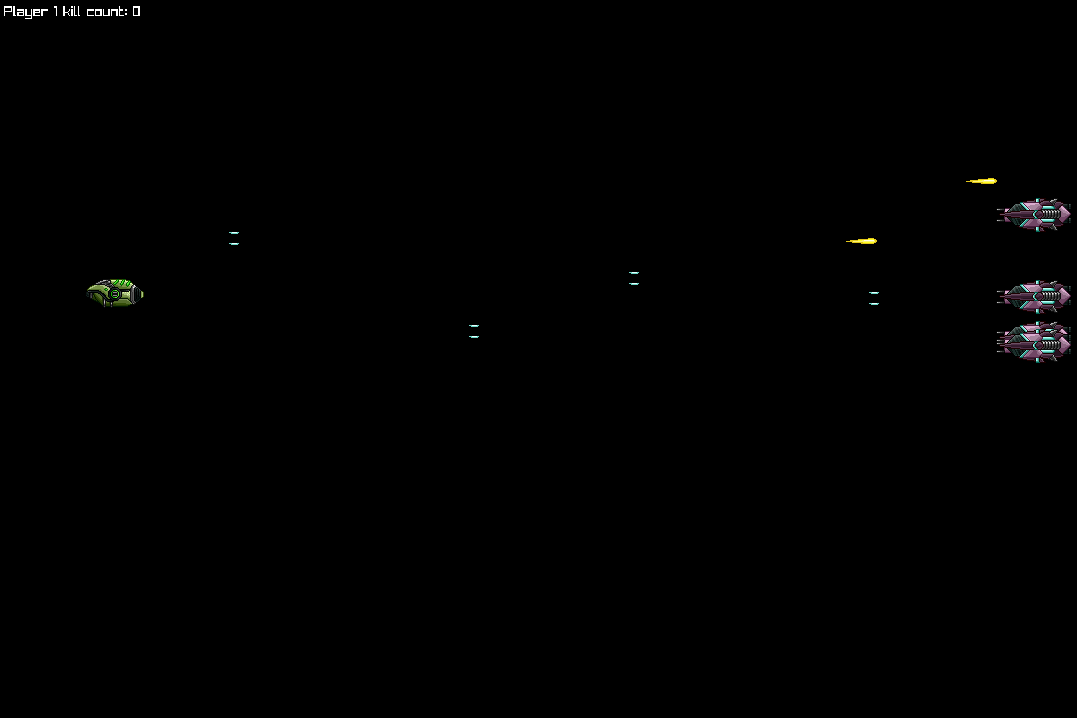
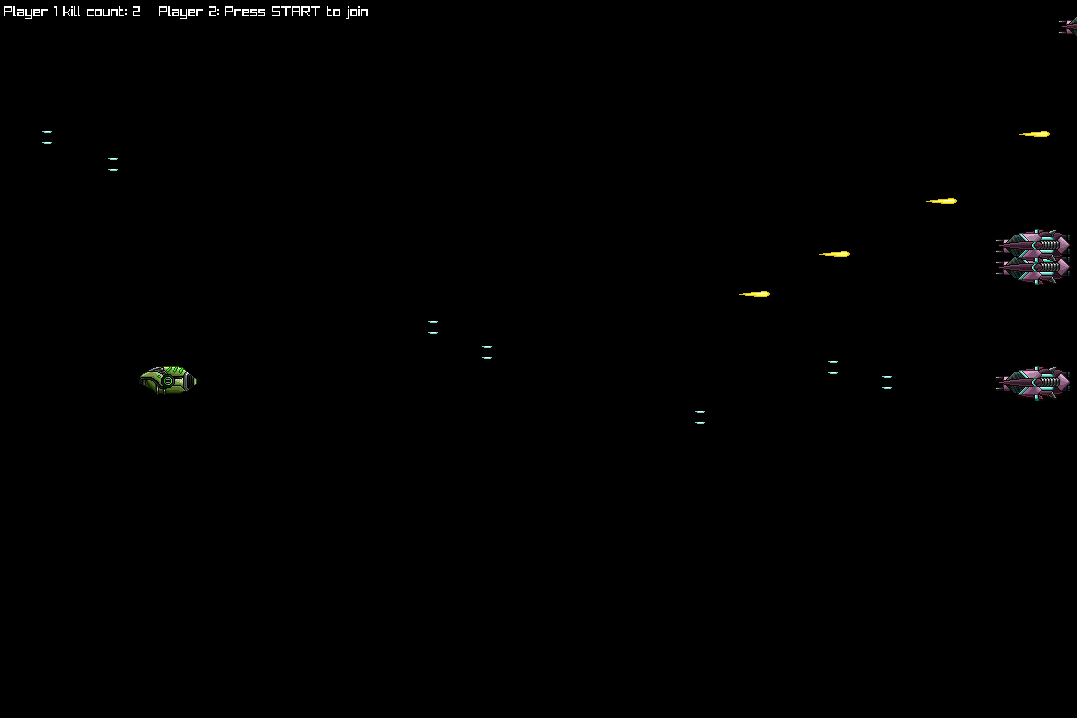
feat(player): add raptor ship type and hammer bullet type
Add a second player ship type (Raptor) with its own bullet type (Hammer).
Player 0 uses Viper/Pulse and player 1 uses Raptor/Hammer.

- add PLAYER_TYPE_RAPTOR and BULLET_TYPE_HAMMER enums
- add raptor.png and hammer.png texture assets
- add per-type bullet selection via GetBulletType in player
- assign player types from a static lookup table in game join flow
- update gameplay screenshot
- use default textures instead of zero-initialized fallbacks
  in GetTexture for bullet, enemy, and player

diff --git a/src/player.c b/src/player.c
@@ -10,6 +10,7 @@
 #include <stdlib.h>
 
 struct Player {
+    PlayerType type;
     Texture2D texture;
     Vector2 position;
     Bullet *bullets[MAX_SIMULTANEOUS_BULLETS];
@@ -21,9 +22,22 @@ static Texture2D GetTexture(const PlayerType type) {
     switch (type) {
     case PLAYER_TYPE_VIPER:
         return *AssetGetTexture(TEXTURE_SPACESHIP_VIPER);
+    case PLAYER_TYPE_RAPTOR:
+        return *AssetGetTexture(TEXTURE_SPACESHIP_RAPTOR);
     }
 
-    return (Texture2D){};
+    return *AssetGetTexture(TEXTURE_SPACESHIP_VIPER);
+}
+
+static BulletType GetBulletType(const PlayerType type) {
+    switch (type) {
+    case PLAYER_TYPE_VIPER:
+        return BULLET_TYPE_PULSE;
+    case PLAYER_TYPE_RAPTOR:
+        return BULLET_TYPE_HAMMER;
+    }
+
+    return BULLET_TYPE_PULSE;
 }
 
 Player *PlayerCreate(const PlayerType type) {
@@ -33,7 +47,7 @@ Player *PlayerCreate(const PlayerType type) {
         return NULL;
     }
 
-    *player = (Player){.texture = GetTexture(type)};
+    *player = (Player){.type = type, .texture = GetTexture(type)};
 
     return player;
 }
@@ -174,7 +188,7 @@ static void Shoot(Player *player) {
         return;
     }
 
-    Bullet *bullet = BulletCreate(BULLET_TYPE_PULSE, BULLET_DIRECTION_RIGHT, PlayerGetBounds(player));
+    Bullet *bullet = BulletCreate(GetBulletType(player->type), BULLET_DIRECTION_RIGHT, PlayerGetBounds(player));
     if (bullet == NULL) {
         TraceLog(LOG_ERROR, "Failed to create player bullet");
 

diff --git a/src/game.c b/src/game.c
@@ -13,6 +13,8 @@
 #include <raylib.h>
 #include <stdlib.h>
 
+static const PlayerType player_types[MAX_PLAYERS] = {PLAYER_TYPE_VIPER, PLAYER_TYPE_RAPTOR};
+
 struct Game {
     int window_width;
     int window_height;
@@ -107,7 +109,7 @@ void GameHandlePlayerJoins(Game *game) {
 
         ControllerInput input = controller->GetInput(controller);
         if (input.start) {
-            Player *player = PlayerCreate(PLAYER_TYPE_VIPER);
+            Player *player = PlayerCreate(player_types[i]);
             if (player == NULL) {
                 TraceLog(LOG_ERROR, "Failed to create player %d", i);
 

diff --git a/src/asset.c b/src/asset.c
@@ -7,8 +7,10 @@ static Texture2D textures[TEXTURE_COUNT];
 static const char *file_textures[TEXTURE_COUNT] = {
     [TEXTURE_SPACESHIP_VIPER] = "assets/textures/spaceships/viper.png",
     [TEXTURE_SPACESHIP_SPECTRA] = "assets/textures/spaceships/spectra.png",
+    [TEXTURE_SPACESHIP_RAPTOR] = "assets/textures/spaceships/raptor.png",
     [TEXTURE_BULLET_PULSE] = "assets/textures/bullets/pulse.png",
     [TEXTURE_BULLET_BOLT] = "assets/textures/bullets/bolt.png",
+    [TEXTURE_BULLET_HAMMER] = "assets/textures/bullets/hammer.png",
 };
 
 void AssetLoadTextures(void) {

diff --git a/src/bullet.c b/src/bullet.c
@@ -19,9 +19,11 @@ static Texture2D GetTexture(const BulletType type) {
         return *AssetGetTexture(TEXTURE_BULLET_PULSE);
     case BULLET_TYPE_BOLT:
         return *AssetGetTexture(TEXTURE_BULLET_BOLT);
+    case BULLET_TYPE_HAMMER:
+        return *AssetGetTexture(TEXTURE_BULLET_HAMMER);
     }
 
-    return (Texture2D){};
+    return *AssetGetTexture(TEXTURE_BULLET_PULSE);
 }
 
 Bullet *BulletCreate(const BulletType type, const BulletDirection direction, const Rectangle shooter_bounds) {

diff --git a/src/enemy.c b/src/enemy.c
@@ -28,7 +28,7 @@ static Texture2D GetTexture(const EnemyType type) {
         return *AssetGetTexture(TEXTURE_SPACESHIP_SPECTRA);
     }
 
-    return (Texture2D){};
+    return *AssetGetTexture(TEXTURE_SPACESHIP_SPECTRA);
 }
 
 Enemy *EnemyCreate(const EnemyType type, const int window_width, const int world_height, const int world_border) {

diff --git a/include/bullet.h b/include/bullet.h
@@ -5,7 +5,7 @@ constexpr int MAX_SIMULTANEOUS_BULLETS = 50;
 constexpr float BULLET_SPEED = 800.0f;
 constexpr float BULLET_SCALE = 1.0f;
 
-typedef enum { BULLET_TYPE_PULSE, BULLET_TYPE_BOLT } BulletType;
+typedef enum { BULLET_TYPE_PULSE, BULLET_TYPE_BOLT, BULLET_TYPE_HAMMER } BulletType;
 
 typedef enum {
     BULLET_DIRECTION_LEFT = -1,

diff --git a/include/player.h b/include/player.h
@@ -8,7 +8,7 @@ constexpr int MAX_PLAYERS = 2;
 constexpr float PLAYER_SPEED = 400.0f;
 constexpr float PLAYER_SCALE = 1.0f;
 
-typedef enum { PLAYER_TYPE_VIPER } PlayerType;
+typedef enum { PLAYER_TYPE_VIPER, PLAYER_TYPE_RAPTOR } PlayerType;
 
 typedef struct Player Player;
 

diff --git a/include/asset.h b/include/asset.h
@@ -4,8 +4,10 @@
 typedef enum {
     TEXTURE_SPACESHIP_VIPER,
     TEXTURE_SPACESHIP_SPECTRA,
+    TEXTURE_SPACESHIP_RAPTOR,
     TEXTURE_BULLET_PULSE,
     TEXTURE_BULLET_BOLT,
+    TEXTURE_BULLET_HAMMER,
 
     TEXTURE_COUNT
 } TextureType;
